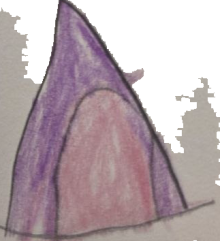
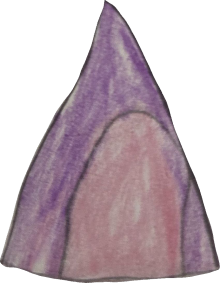
feat: clean tent asset + snore loop in tent + strip title-screen text (v0.14.0)
- Nouvelle tente redecoupee par Charlie, reintegree proprement (fond propre).
- Son de ronflement en boucle douce quand on dort dans la tente (fade in/out).
- Ecran-titre epure : retire le texte descriptif, garde titre + Continue/New Game
  (pret pour un futur artwork).

diff --git a/game.js b/game.js
@@ -8,7 +8,7 @@
 (function () {
   'use strict';
 
-  var VERSION = '0.13.0';
+  var VERSION = '0.14.0';
 
   var canvas = document.getElementById('game');
   var ctx = canvas.getContext('2d');
@@ -269,6 +269,7 @@
   // Charlie au fur et à mesure sans casser le comportement.
   var AC = null, footParity = false;
   var waterBuf = null, waterSrc = null, waterGain = null; // boucle sonore du bateau (remplace les pas)
+  var snoreBuf = null, snoreSrc = null, snoreGain = null; // boucle de ronflement (dans la tente)
   var SFX = { step: 'assets/step.mp3', axe: 'assets/sfx_axe.mp3', treehit: 'assets/sfx_treehit.mp3', leaves: 'assets/sfx_leaves.mp3', treefall: 'assets/sfx_treefall.mp3', mstep: 'assets/sfx_mstep.mp3' };
   var sfxBuf = {};
   var ambBuf = {};            // ambiances environnementales (vent / oiseaux)
@@ -294,6 +295,10 @@
     fetch('assets/water.mp3').then(function (r) { return r.ok ? r.arrayBuffer() : Promise.reject(); })
       .then(function (ab) { return AC.decodeAudioData(ab); })
       .then(function (buf) { waterBuf = buf; startWaterLoop(); }).catch(function () {});
+    // boucle de ronflement (dans la tente)
+    fetch('assets/snore.mp3').then(function (r) { return r.ok ? r.arrayBuffer() : Promise.reject(); })
+      .then(function (ab) { return AC.decodeAudioData(ab); })
+      .then(function (buf) { snoreBuf = buf; startSnoreLoop(); }).catch(function () {});
   }
   function startWaterLoop() {
     if (!AC || !waterBuf || waterSrc) return;
@@ -301,6 +306,13 @@
     waterGain = AC.createGain(); waterGain.gain.value = 0;
     waterSrc.connect(waterGain); waterGain.connect(AC.destination);
     try { waterSrc.start(); } catch (e) {}
+  }
+  function startSnoreLoop() {
+    if (!AC || !snoreBuf || snoreSrc) return;
+    snoreSrc = AC.createBufferSource(); snoreSrc.buffer = snoreBuf; snoreSrc.loop = true;
+    snoreGain = AC.createGain(); snoreGain.gain.value = 0;
+    snoreSrc.connect(snoreGain); snoreGain.connect(AC.destination);
+    try { snoreSrc.start(); } catch (e) {}
   }
   // Ambiance occasionnelle (vent / oiseaux) : très discret, avec dégradé montée->descente.
   function playAmbient() {
@@ -851,6 +863,8 @@
       var wmov = Math.hypot(player.vx, player.vy) > 25;
       waterGain.gain.setTargetAtTime(onWater ? (wmov ? 0.32 : 0.13) : 0, AC.currentTime, 0.15);
     }
+    // ronflement : monte quand on dort dans la tente, s'estompe au réveil.
+    if (AC && snoreGain) snoreGain.gain.setTargetAtTime(inTent ? 0.4 : 0, AC.currentTime, 0.3);
 
     // tente : Z's du sommeil qui s'envolent quand on dort dedans
     if (inTent) { zAccum += dt; if (zAccum >= 0.85) { zAccum = 0; spawnZ(); } }

diff --git a/index.html b/index.html
@@ -43,7 +43,6 @@
   <button id="fs" title="Fullscreen">&#9974;</button>
   <div id="title">
     <h1>Cacayou</h1>
-    <p>A game by Elaijah 🐊<br>A little forest to explore. Tap the screen to move (or WASD / arrow keys).</p>
     <button id="continueBtn" style="display:none">Continue</button>
     <button id="playBtn">New Game</button>
     <div id="ver">v0.0.0</div>